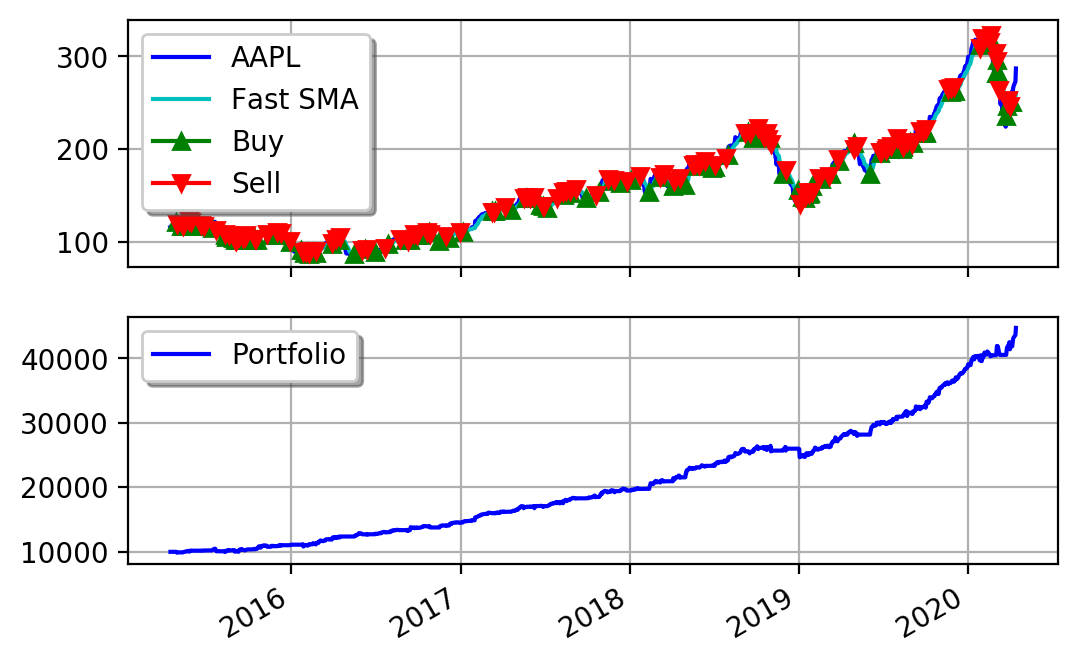
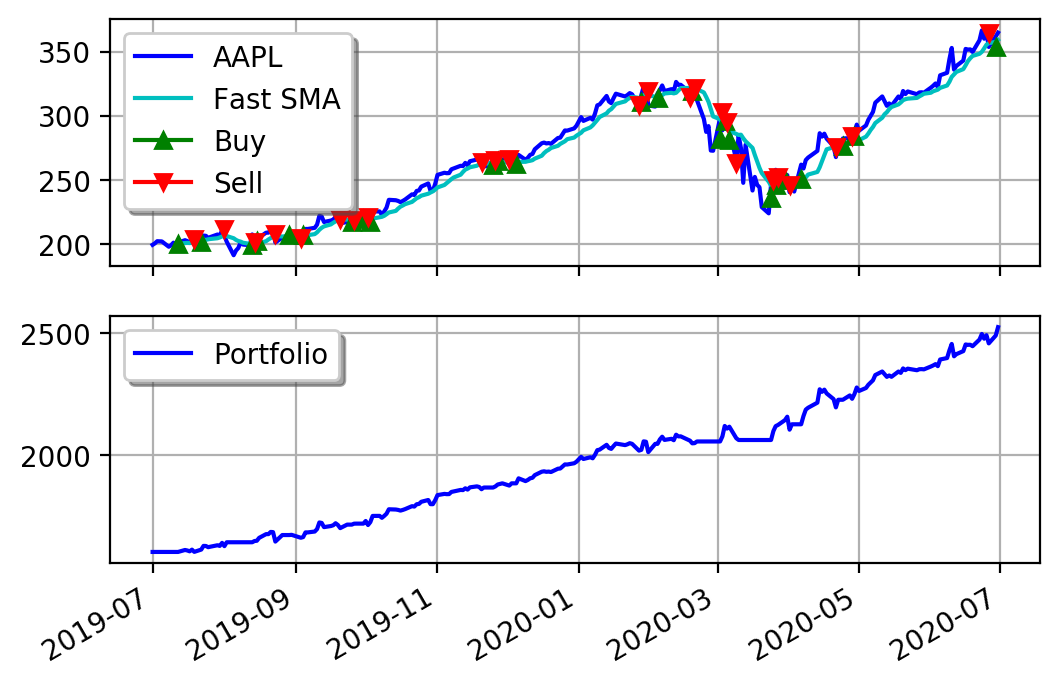
tickerdatautil csv update
Updated tickerdatautil to only work with CSV, for more human readable work.

diff --git a/Strategies/tickerdatautil.py b/Strategies/tickerdatautil.py
@@ -11,9 +11,9 @@ The object of this script is to perform the following tasks:
 3. Update the data when called. In this case the update period will be calculated.
    If the data has not been updated in greater than 3 months, the data should be 
    refreshed using the original grab function, as opposed to the update function.
-4. Using any pickle list of stock tickers, download or update the data accordingly.
+4. Using any csv list of stock tickers, download or update the data accordingly.
 
-5. Read a CSV with stock tickers and import them into a pickle file for use as above.
+5. Read a CSV with stock tickers and import them into a csv file for use as above.
 
 Notes:
 
@@ -21,12 +21,34 @@ Yahoo Finance acceptable time periods:
 valid periods: 1d,5d,1mo,3mo,6mo,1y,2y,5y,10y,ytd,max
 Valid intervals: 1m,2m,5m,15m,30m,60m,90m,1h,1d,5d,1wk,1mo,3mo
                 Intraday data cannot extend last 60 days
+
+MIT License
+
+Copyright (c) 2020 Robert E. Ruzzo III
+
+Permission is hereby granted, free of charge, to any person obtaining a copy
+of this software and associated documentation files (the "Software"), to deal
+in the Software without restriction, including without limitation the rights
+to use, copy, modify, merge, publish, distribute, sublicense, and/or sell
+copies of the Software, and to permit persons to whom the Software is
+furnished to do so, subject to the following conditions:
+
+The above copyright notice and this permission notice shall be included in all
+copies or substantial portions of the Software.
+
+THE SOFTWARE IS PROVIDED "AS IS", WITHOUT WARRANTY OF ANY KIND, EXPRESS OR
+IMPLIED, INCLUDING BUT NOT LIMITED TO THE WARRANTIES OF MERCHANTABILITY,
+FITNESS FOR A PARTICULAR PURPOSE AND NONINFRINGEMENT. IN NO EVENT SHALL THE
+AUTHORS OR COPYRIGHT HOLDERS BE LIABLE FOR ANY CLAIM, DAMAGES OR OTHER
+LIABILITY, WHETHER IN AN ACTION OF CONTRACT, TORT OR OTHERWISE, ARISING FROM,
+OUT OF OR IN CONNECTION WITH THE SOFTWARE OR THE USE OR OTHER DEALINGS IN THE
+SOFTWARE.
+
 """
 
 #imports
 
 import bs4 as bs
-import pickle
 import requests
 import os
 import time
@@ -36,43 +58,45 @@ from datetime import datetime
 import glob as g
 import sys
 
+
 '''
 Function Name: save_sp_500_tickers(data_directory)
 Function Purpose: To get the current list of S&P500 ticker Symbols from wikipedia
-                  and save them to a file tickers.pickle.
-Arguments: data_directory: A string representing the data directory where pickle files containing tickers are stored
-Output: sp500tickers.pickle
+                  and save them to a file tickers.csv
+Arguments: data_directory: A string representing the data directory where csv files containing tickers are stored
+Output: sp500tickers.csv
 '''
 def save_sp_500_tickers(data_directory):
     resp=requests.get('https://en.wikipedia.org/wiki/List_of_S%26P_500_companies')
     soup=bs.BeautifulSoup(resp.text, 'lxml')
     table=soup.find('table',{'class': 'wikitable sortable'})
     tickers=[]
+    tickers.append("Ticker")
     for row in table.findAll('tr')[1:]:
         ticker = row.findAll('td')[0].text.replace('.','-')
         ticker = ticker[:-1]
         tickers.append(ticker)
-    if os.path.exists(data_directory+'sp500tickers.pickle'):
-        os.remove(data_directory+'sp500tickers.pickle')
-    with open(data_directory + "sp500tickers.pickle","wb") as f:
-        pickle.dump(tickers,f)
-
-
+    if os.path.exists(data_directory+'sp500tickers.csv'):
+        os.remove(data_directory+'sp500tickers.csv')
+    with open(data_directory+'sp500tickers.csv',"a",newline='') as f:
+        tickersDf=pd.DataFrame(tickers)
+        f.write(tickersDf.to_csv(header=False, index=False))
+        
+        
 
 '''
 Function Name: update_ticker_prices_fromLast(data_directory,ticker_sub_directory,fileName)
-Function Purpose: When given a pickle file with a list of ticker names, if a csv file exists in the ticker subdirectory,
+Function Purpose: When given a csv file with a list of ticker names, if a csv file exists in the ticker subdirectory,
                   then the function will check the last date in the file, download the data in a valid increment,
                   and update the file.
-Arguments:  data_directory: A string representing the data directory where pickle files containing tickers are stored
+Arguments:  data_directory: A string representing the data directory where csv files containing tickers are stored
             ticker_sub_directory: The sub folder that the csv files for each ticker will be stored
-            fileName: A string representing name of the pickle file that contains the tickers, .pickle should be included
+            fileName: A string representing name of the csv file that contains the tickers, .csv should be included
             delay: float - The delay time in seconds between ticker info downloads, 0.5 works well, not to anger the yahoo server
 '''
 def update_ticker_prices_fromLast(data_directory,ticker_sub_directory,fileName,delay):
-    with open(data_directory + fileName,"rb") as f:
-            tickers=pickle.load(f)
-    for ticker in tickers:
+    tickers=pd.read_csv(data_directory + fileName, usecols=["Ticker"], index_col=None)
+    for ticker in tickers["Ticker"]:
         print("Updating Ticker: {}".format(ticker))
         if not os.path.exists(data_directory+ticker_sub_directory+'/{}.csv'.format(ticker)):
             print("Ticker File Not Found, Check directory, ticker name, or run get_data_from_yahoo()")
@@ -107,17 +131,18 @@ def update_ticker_prices_fromLast(data_directory,ticker_sub_directory,fileName,d
 
 '''
 Function Name: get_data_from_yahoo(data_directory,ticker_sub_directory,fileName,period,refresh,purge)
-Purpose:  This function will take as an input a pickle file
+Purpose:  This function will take as an input a csv file
           which it will open, take in all of the ticker names
           and download the information using the Yahoo Finance API.
-Arguments:    data_directory: Data parent directory - this is where the pickle files should be stored
+Arguments:    data_directory: Data parent directory - this is where the csv files should be stored
             ticker_sub_directory: String, data sub directory, this is where a csv for each of the tickers history will be stored
-            fileName: String, file name of the pickle file that resides in the data_directory to read tickers from. The
-                      default is sp500tickers.pickle, other pickle files in the same format can be used.
+            fileName: String, file name of the csv file that resides in the data_directory to read tickers from. The
+                      default is sp500tickers.csv, other csv files in the same format can be used.
             period: This is the length of the history that you wish to download.
                     The following values are allowed for the Yahoo Finance API: 1d,5d,1mo,3mo,6mo,1y,2y,5y,10y,ytd,max
                     The default period is set to 1y or 1 year. The input is a string.
-            refresh: Bool, if set to True, it will delete the file for each ticker, and re-download the data for the desired period.
+            refresh: Bool, if set to True, it will delete the file for each ticker, and re-download the data for the desired period. This will
+                     leave old tickers that arent in the ticker list intact.
             purge:   Bool, if set to True, ALL data files in the directory will be deleted, and then the data will be downloaded. This
                      function serves to delete old data that is in the directory that is no longer in use. IE after a watch list has changed.
             delay:   float - The delay time in seconds between ticker info downloads, 0.5 works well, not to anger the yahoo server
@@ -127,7 +152,7 @@ def get_data_from_yahoo(data_directory,ticker_sub_directory,fileName,period,refr
         print(data_directory+fileName+" Not Found! Check Path and File Name! Exiting!")
         sys.exit()
     with open(data_directory + fileName,"rb") as f:
-        tickers=pickle.load(f)
+        tickers=pd.read_csv(data_directory + fileName, usecols=["Ticker"], index_col=None)
     if purge:
         files=g.glob(data_directory+ticker_sub_directory+'/*')
         print("Purging all files for a fresh clean start")
@@ -135,7 +160,7 @@ def get_data_from_yahoo(data_directory,ticker_sub_directory,fileName,period,refr
             os.remove(f)
     if not os.path.exists(data_directory+ticker_sub_directory):
         os.makedirs(data_directory+ticker_sub_directory)
-    for ticker in tickers:
+    for ticker in tickers["Ticker"]:
         if not os.path.exists(data_directory+ticker_sub_directory+'/{}.csv'.format(ticker)):
             print("Getting Ticker: {}".format(ticker))
             tick=yf.Ticker(ticker)
@@ -163,19 +188,19 @@ def get_data_from_yahoo(data_directory,ticker_sub_directory,fileName,period,refr
 
 '''
 Function Name: get_data_from_yahoo_specific(data_directory,ticker_sub_directory,fileName,start,end,interval, refresh, purge)
-Purpose:  This function will take as an input a pickle file
+Purpose:  This function will take as an input a csv file
           which it will open, take in all of the ticker names
           and download the information using the Yahoo Finance API.
-Arguments:    data_directory: Data parent directory - this is where the pickle files should be stored
+Arguments:    data_directory: Data parent directory - this is where the csv files should be stored
             ticker_sub_directory: String, data sub directory, this is where a csv for each of the tickers history will be stored
-            fileName: String, file name of the pickle file that resides in the data_directory to read tickers from. The
-                      default is sp500tickers.pickle, other pickle files in the same format can be used.
+            fileName: String, file name of the csv file that resides in the data_directory to read tickers from. The
+                      default is sp500tickers.csv, other csv files in the same format can be used.
             start:    A string in the format yyyy-mm-dd representing the desired start date
             end:      A string in the format yyyy-mm-dd representing the desired end date
             interval: A string representing the interval period for each data point. 
                       Valid intervals: 1m,2m,5m,15m,30m,60m,90m,1h,1d,5d,1wk,1mo,3mo
                       Intraday data cannot extend last 60 days
-            refresh:  Bool, if set to True, it will delete the file for each ticker, and re-download the data for the desired period.
+            refresh:  Bool, if set to True, it will delete the file for each ticker, and re-download the data for the desired period. This will cause the old ticker data to remain.
             purge:    Bool, if set to True, ALL data files in the directory will be deleted, and then the data will be downloaded. This
                       function serves to delete old data that is in the directory that is no longer in use. IE after a watch list has changed.
             delay:   float - The delay time in seconds between ticker info downloads, 0.5 works well, not to anger the yahoo server
@@ -185,7 +210,7 @@ def get_data_from_yahoo_specific(data_directory,ticker_sub_directory,fileName,st
         print(data_directory+fileName+" Not Found! Check Path and File Name! Exiting!")
         sys.exit()
     with open(data_directory + fileName,"rb") as f:
-        tickers=pickle.load(f)
+        tickers=pd.read_csv(data_directory + fileName, usecols=["Ticker"], index_col=None)
     if purge:
         files=g.glob(data_directory+ticker_sub_directory+'/*')
         print("Purging all files for a fresh clean start")
@@ -193,7 +218,7 @@ def get_data_from_yahoo_specific(data_directory,ticker_sub_directory,fileName,st
             os.remove(f)
     if not os.path.exists(data_directory+ticker_sub_directory):
         os.makedirs(data_directory+ticker_sub_directory)
-    for ticker in tickers:
+    for ticker in tickers["Ticker"]:
         if not os.path.exists(data_directory+ticker_sub_directory+'/{}.csv'.format(ticker)):
             print("Getting Ticker: {}".format(ticker))
             tick=yf.Ticker(ticker)
@@ -218,12 +243,13 @@ def get_data_from_yahoo_specific(data_directory,ticker_sub_directory,fileName,st
             df.drop(columns=['Dividends','Stock Splits'],axis=1, inplace=True)
             df.to_csv(data_directory+ticker_sub_directory+'/{}.csv'.format(ticker),date_format='%s', index=False)
             time.sleep(delay)
+
 '''
 Function Name: get_update_date_delta(data_directory,ticker_sub_directory,ticker)
 Purpose: This function takes a ticker name string as an input and will open
          the appropriate csv file, and will return the time in days since last
          update as well as the date of the last update.
-Arguments: data_directory: Data parent directory - this is where the pickle files should be stored
+Arguments: data_directory: Data parent directory - this is where the csv files should be stored
            ticker_sub_directory: String, data sub directory, this is where a csv for each of the tickers history will be stored
            ticker: String, the ticker symbol, ex Apple = 'AAPL'
 Returns: int days, pandas datetime last_date yyyy-mm-dd
@@ -242,78 +268,52 @@ def get_update_date_delta(data_directory,ticker_sub_directory,ticker):
 
 
 '''
-Function Name: convert_tickers_csv_to_pickle(data_directory,csv_file)
-Purpose: This function takes a csv file of one column with ticker names and creates a pickle
-         file with the same name.
-Arguments:  data_directory: String, Data parent directory - this is where the pickle files should be stored
-            csv_file: String, name of the csv file to conver to pickle, include .csv in string, place file in the data_directory
-                      The csv file should have the header of Ticker
-Output: A pickle file containing the tickers
-'''
-def convert_tickers_csv_to_pickle(data_directory,csv_file):
-    df=pd.read_csv(data_directory+csv_file)
-    pickle_name=csv_file[:-4]+".pickle"
-    tickers=df['Ticker']
-    with open(data_directory + pickle_name,"wb") as f:
-        pickle.dump(tickers,f)
-
-'''
-Function Name: add_ticker_to_pickle(data_directory,pickleFile,tickerName)
-Purpose: This function allows you to add a ticker to a pickle file. Ex myWatchList.
-Arguments: data_directory: String, Data parent directory - this is where the pickle files should be stored
-           pickleFile: String, this is the name of the pickle file that contains tickers, that you will be adding a ticker to
-           tickerName: String, the ticker symbol you wish to add to the pickle file
+Function Name: add_ticker_to_csv(data_directory,csvFile,tickerName)
+Purpose: This function allows you to add a ticker to a csv file. Ex myWatchList.
+Arguments: data_directory: String, Data parent directory - this is where the csv files should be stored
+           csvFile: String, this is the name of the csv file that contains tickers, that you will be adding a ticker to
+           tickerName: String, the ticker symbol you wish to add to the csv file
 Note: This does not update the data, you should run get_data_from_yahoo() to do so
 '''
 
-def add_ticker_to_pickle(data_directory,pickleFile,tickerName):
-    if os.path.exists(data_directory+pickleFile):
-        with open(data_directory + pickleFile,"rb") as f:
-            tickers=pickle.load(f) 
-        tickers[len(tickers)]=tickerName
-        os.remove(data_directory+pickleFile)
-        with open(data_directory + pickleFile,"wb") as f:
-            pickle.dump(tickers,f)
-        print("{} ".format(tickerName)+ "Added to {}".format(pickleFile))
+def add_ticker_to_csv(data_directory,csvFile,tickerName):
+    tickers=pd.read_csv(data_directory + csvFile, usecols=["Ticker"], index_col=None)
+    new_row={"Ticker":tickerName}
+    tickers=tickers.append(new_row, ignore_index=True)
+    with open(data_directory+csvFile,"w",newline='') as f:
+        f.write(tickers.to_csv(header=True, index=False))
+
 
 '''
-Function Name: remove_ticker_from_pickle(data_directory,pickleFile, tickerName)
-Purpose: This function is used to remove a ticker from a pickle file.
-Arguments: data_directory: String, Data parent directory - this is where the pickle files should be stored
-           pickleFile: String, this is the name of the pickle file that contains tickers, that you will be removing a ticker from
-           tickerName: String, the ticker symbol you wish to remove from the pickle file
-Note: This does not update the data, only the pickle, you should run
+TO BE REMOVED OR CHANGED TO CSV
+
+Function Name: remove_ticker_from_csv(data_directory,csvFile, tickerName)
+Purpose: This function is used to remove a ticker from a csv file.
+Arguments: data_directory: String, Data parent directory - this is where the csv files should be stored
+           csvFile: String, this is the name of the csv file that contains tickers, that you will be removing a ticker from
+           tickerName: String, the ticker symbol you wish to remove from the csv file
+Note: This does not update the data, only the csv, you should run
       get_data_from_yahoo() to do so. If you dont use the purge option while
       doing so, the old data will remain for tickers that no longer exist.
 '''
 
-def remove_ticker_from_pickle(data_directory,pickleFile, tickerName):
-    if os.path.exists(data_directory+pickleFile):
-        with open(data_directory + pickleFile,"rb") as f:
-            tickers=pickle.load(f)
+def remove_ticker_from_csv(data_directory,csvFile, tickerName):
+    tickers=pd.read_csv(data_directory + csvFile, usecols=["Ticker"], index_col=None)
+    droplist=tickers.index[tickers['Ticker'] == tickerName].tolist()
+    tickers.drop(index=droplist, inplace=True)
+    with open(data_directory+csvFile,"w",newline='') as f:
+        f.write(tickers.to_csv(header=True, index=False))
+    
+    
+    '''
+    if os.path.exists(data_directory+csvFile):
+        with open(data_directory + csvFile,"rb") as f:
+            tickers=csv.load(f)
         for i in range (0,len(tickers)):
             if tickers[i]==tickerName:
                 print("Removing ticker: {}".format(tickers[i]))
                 tickers.drop(labels=i,inplace=True)
-        os.remove(data_directory+pickleFile)
-        with open(data_directory + pickleFile,"wb") as f:
-            pickle.dump(tickers,f)
-
-
-
-'''
-Function Name: convert_tickers_df_to_pickle(data_directory,output_file,ticker_df)
-Purpose: This function takes a pandas dataframe list of tickers with the column header Ticker and creates a pickle file
-Arguments:  data_directory: String, Data parent directory - this is where the pickle files should be stored
-            output_file: String, name of the output file, .pickle will be added, dont include
-            ticker_df: a pandas dataframe that contains a list of tickers, with a Column name of Ticker          
-Output: A pickle file containing the tickers
-Example:  df = pd.DataFrame(data=['AAPL','IBM','OLED'], columns=['Ticker']) 
-          convert_tickers_df_to_pickle('E:/Datasets/Stocks/','mythree',df)
-'''
-def convert_tickers_df_to_pickle(data_directory,output_file,ticker_df):
-    pickle_name=output_file+".pickle"
-    with open(data_directory + pickle_name,"wb") as f:
-        pickle.dump(ticker_df['Ticker'],f)
-
-
+        os.remove(data_directory+csvFile)
+        with open(data_directory + csvFile,"wb") as f:
+            csv.dump(tickers,f)
+    '''

diff --git a/Strategies/multipleInstrumentTest.py b/Strategies/multipleInstrumentTest.py
@@ -24,13 +24,13 @@ import pandas as pd
 
 
 #settings for updating the ticker data
-period ="5y" #Default Initial Yahoo Finance Download Period
+period ="1y" #Default Initial Yahoo Finance Download Period
 delay=0.5	 #Default Delay between downloads in seconds
 data_directory='E:/Datasets/Stocks/' #Include the trailing '/'
 fileName ="MyWatchList.pickle" #Default File Name For updating
 ticker_sub_directory ='MyWatchList'
-start_date='2010-01-01'
-end_date='2017-01-01'
+start_date='2020-01-01'
+end_date='2020-06-29'
 interval='1d'
 
 #Update or redownload ticker data, uncomment to do so
@@ -44,7 +44,7 @@ interval='1d'
 
 
 #Set the initial portfolio size
-INITIAL_BUDGET = 10000
+INITIAL_BUDGET = 1600
 #How much of our budget will we use on this instrument for buying shares
 BUDGET_USE = 0.50
 #How Much we want to risk, to set a stop
@@ -55,7 +55,7 @@ pickle_file ='MyWatchList.pickle'
 pickle_directory ="E:\\Datasets\\stocks\\"
 tickerFile=pickle_directory+pickle_file
 data_directory='E:\\Datasets\\stocks\\MyWatchList\\'
-save_plots=False
+save_plots=True
 plot_dpi=200
 outputInfo=False
 save_results=True

diff --git a/Strategies/test.py b/Strategies/test.py
@@ -1,0 +1,26 @@
+# -*- coding: utf-8 -*-
+"""
+Created on Tue Jun 30 16:31:15 2020
+
+@author: robru
+"""
+
+data_directory = "E:/Datasets/Stocks/"
+ticker_sub_directory="SP500/"
+fileName ="MyWatchList.csv"
+delay = 0.5
+period="1y"
+start="2019-01-01"
+end="2020-01-01"
+interval="1d"
+tickerName="IFSX"
+
+
+import tickerdatautil_InProg
+#tickerdatautil_InProg.save_sp_500_tickers("E:/Datasets/Stocks/")
+#tickerdatautil_InProg.update_ticker_prices_fromLast(data_directory, ticker_sub_directory, fileName, delay)
+#tickerdatautil_InProg.get_data_from_yahoo(data_directory,ticker_sub_directory,fileName,period,True,False,delay)
+#tickerdatautil_InProg.get_data_from_yahoo(data_directory,ticker_sub_directory,fileName,period,False,True,delay)
+#tickerdatautil_InProg.get_data_from_yahoo_specific(data_directory,ticker_sub_directory,fileName,start,end,interval, False, True, delay)
+#tickerdatautil_InProg.add_ticker_to_csv(data_directory,fileName,tickerName)
+#tickerdatautil_InProg.remove_ticker_from_csv(data_directory,fileName, tickerName)
